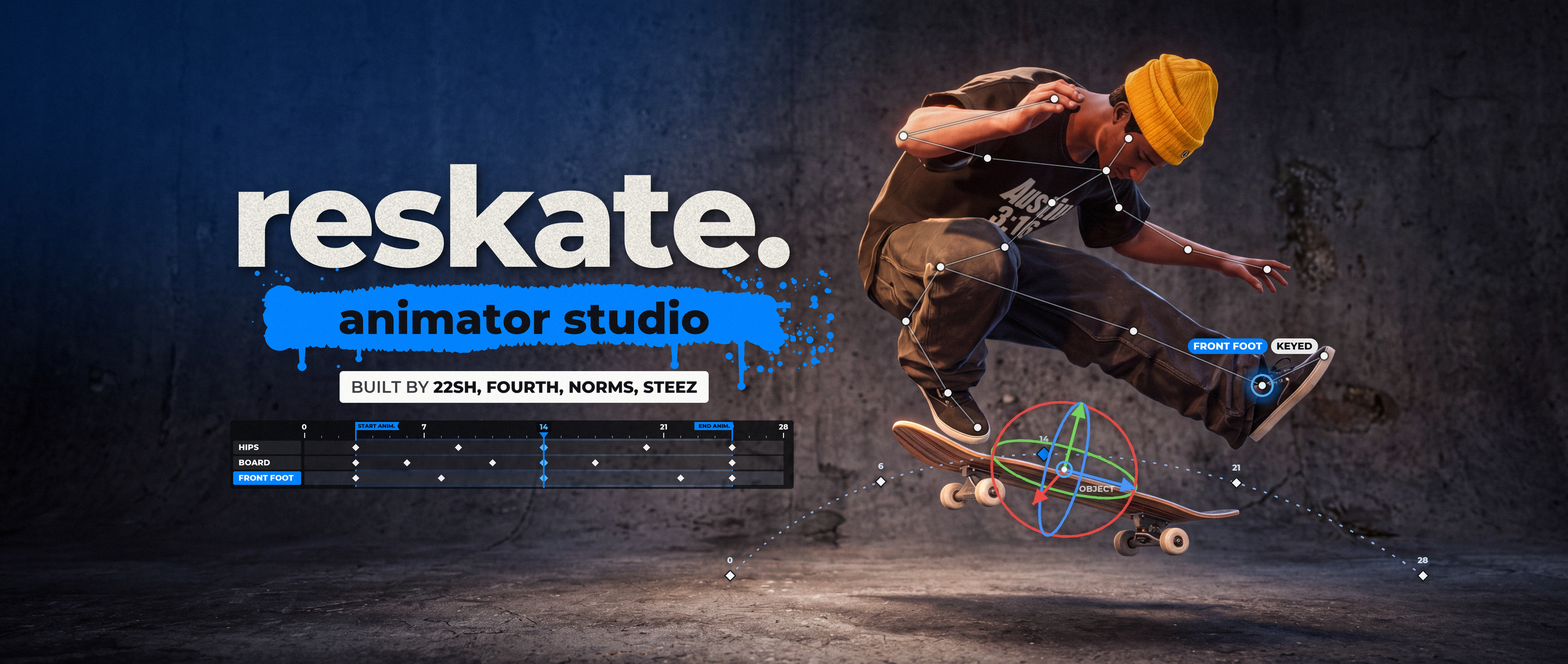
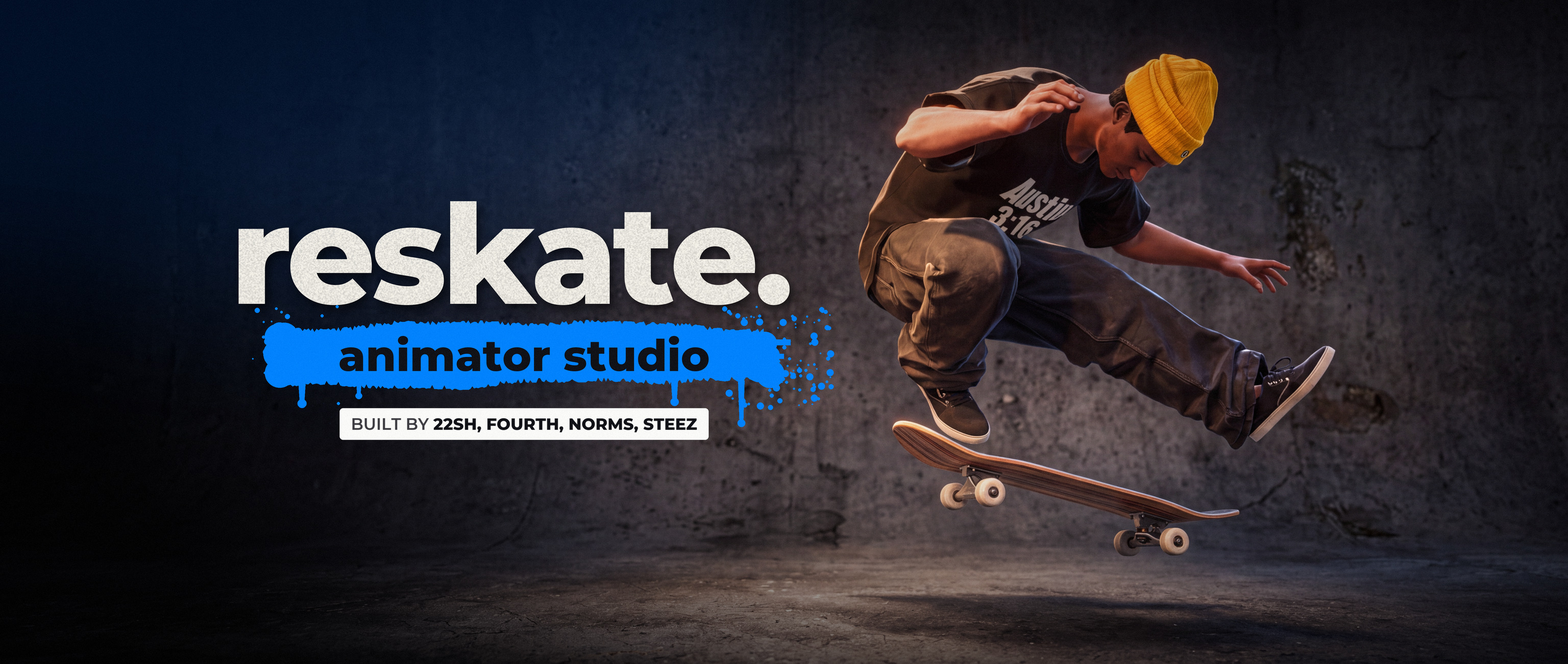
Animator Studio: the loading picture kept clean - the skater in a deep vignette and the reskate. lockup

diff --git a/contrib/animator-studio/make_loading_picture.py b/contrib/animator-studio/make_loading_picture.py
@@ -1,5 +1,5 @@
-"""The Animator Studio's loading picture: backdrop 3's kickflip with the studio drawn into it - the skater's joint rig, the
-gizmo on the board, the board's arc as keyframes with onion-skin ghosts - and the reskate. lockup with a studio timeline."""
+"""The Animator Studio's loading picture: backdrop 3's kickflip, clean - the skater in a deep vignette, and the reskate. lockup
+with its tape and credits. Its plate (the lettering taken off backdrop 3) is made by make_loading_plate.py."""
 import math
 import random
 import numpy as np
@@ -43,176 +43,19 @@ luma = arr.mean(axis=2, keepdims=True) / 255.0
 cool = np.array([0.96, 0.99, 1.06], dtype=np.float32)
 arr = arr * (cool * (1 - luma) + luma)  # shadows lean blue, highlights stay warm
 yy, xx = np.mgrid[0:H, 0:W].astype(np.float32)
-cx, cy = W * 0.62, H * 0.48
-d = np.sqrt(((xx - cx) / (W * 0.62)) ** 2 + ((yy - cy) / (H * 0.75)) ** 2)
-vignette = np.clip(1.08 - 0.42 * d ** 1.8, 0.45, 1.05)
-arr *= vignette[..., None]
+cx, cy = W * 0.70, H * 0.46
+d = np.sqrt(((xx - cx) / (W * 0.50)) ** 2 + ((yy - cy) / (H * 0.70)) ** 2)
+vignette = np.clip(1.10 - 0.62 * d ** 1.6, 0.18, 1.06)
+# and the top and the bottom edges a touch darker again, as a lens does
+edge = np.clip(1.0 - 0.35 * (np.abs(yy / H - 0.47) / 0.53) ** 3, 0.6, 1.0)
+arr *= (vignette * edge)[..., None]
 canvas = Image.fromarray(np.clip(arr, 0, 255).astype(np.uint8)).convert('RGBA')
 
 # A cold light from the top left, behind the lockup.
 leak = layer()
 ld = ImageDraw.Draw(leak)
-ld.ellipse([-900, -1300, 3400, 1500], fill=(1, 110, 255, 60))
+ld.ellipse([-900, -1300, 3400, 1500], fill=(1, 110, 255, 38))
 canvas = Image.alpha_composite(canvas, leak.filter(ImageFilter.GaussianBlur(420)))
-
-# ---- the skater's rig -------------------------------------------------------------------------------
-J = {
-    'head': (4560, 560), 'neck': (4470, 690), 'chest': (4250, 820), 'spine': (4060, 1000), 'hips': (3800, 1080),
-    'r_shoulder': (3990, 640), 'r_elbow': (3650, 550), 'r_hand': (4260, 400),
-    'l_shoulder': (4520, 840), 'l_elbow': (4800, 1010), 'l_hand': (5120, 1090),
-    'b_knee': (3660, 1300), 'b_ankle': (3830, 1590), 'b_toe': (3950, 1730),
-    'f_knee': (4580, 1340), 'f_ankle': (5100, 1560), 'f_toe': (5350, 1440),
-}
-BONES = [('head', 'neck'), ('neck', 'chest'), ('chest', 'spine'), ('spine', 'hips'), ('neck', 'r_shoulder'), ('r_shoulder', 'r_elbow'),
-         ('r_elbow', 'r_hand'), ('neck', 'l_shoulder'), ('l_shoulder', 'l_elbow'), ('l_elbow', 'l_hand'), ('hips', 'b_knee'),
-         ('b_knee', 'b_ankle'), ('b_ankle', 'b_toe'), ('hips', 'f_knee'), ('f_knee', 'f_ankle'), ('f_ankle', 'f_toe')]
-rig = layer()
-rd = ImageDraw.Draw(rig)
-for a, b in BONES:
-    rd.line([J[a], J[b]], fill=(0, 0, 0, 70), width=13)
-for a, b in BONES:
-    rd.line([J[a], J[b]], fill=(225, 238, 255, 120), width=5)
-for name, (x, y) in J.items():
-    r = 14
-    rd.ellipse([x - r - 6, y - r - 6, x + r + 6, y + r + 6], fill=(0, 0, 0, 110))
-    rd.ellipse([x - r, y - r, x + r, y + r], fill=(250, 250, 252, 235))
-# The joint being posed: the front foot, with the studio's glowing ring and its name beside it.
-fx, fy = J['f_ankle']
-ring = layer()
-rg = ImageDraw.Draw(ring)
-for i, a in enumerate((60, 90, 140)):
-    rr = 52 + i * 12
-    rg.ellipse([fx - rr, fy - rr, fx + rr, fy + rr], outline=(1, 131, 255, a), width=10)
-rig = Image.alpha_composite(rig, glow(ring, 14, 1.4))
-rd = ImageDraw.Draw(rig)
-rd.ellipse([fx - 46, fy - 46, fx + 46, fy + 46], outline=(80, 170, 255, 255), width=9)
-rd.ellipse([fx - 12, fy - 12, fx + 12, fy + 12], fill=(230, 240, 255, 255))
-canvas = Image.alpha_composite(canvas, glow(rig, 10, 0.6))
-canvas = Image.alpha_composite(canvas, rig)
-
-
-def chip(draw, at, label, fill, ink, size=40, pad=22):
-    f = font('Montserrat-ExtraBold.ttf', size)
-    w = draw.textlength(label, font=f)
-    x, y = at
-    h = size + pad
-    draw.rounded_rectangle([x, y, x + w + pad * 2, y + h], radius=h // 2, fill=fill)
-    draw.text((x + pad, y + h / 2), label, font=f, fill=ink, anchor='lm')
-    return w + pad * 2
-
-
-tags = layer()
-td = ImageDraw.Draw(tags)
-x = fx - 300
-x += chip(td, (x, fy - 190), 'FRONT FOOT', (1, 131, 255, 245), (255, 255, 255, 255)) + 14
-chip(td, (x, fy - 190), 'KEYED', (245, 245, 245, 240), INK + (255,))
-canvas = Image.alpha_composite(canvas, tags)
-
-# ---- the board's arc: keyframes, and the board where it was ----------------------------------------
-board_c = (4300, 1900)
-along = (1390 / 1438, 370 / 1438)
-up = (along[1], -along[0])
-
-
-def bezier(p0, p1, p2, p3, t):
-    u = 1 - t
-    return (u ** 3 * p0[0] + 3 * u * u * t * p1[0] + 3 * u * t * t * p2[0] + t ** 3 * p3[0],
-            u ** 3 * p0[1] + 3 * u * u * t * p1[1] + 3 * u * t * t * p2[1] + t ** 3 * p3[1])
-
-
-P0, P1, P2, P3 = (2950, 2330), (3550, 1700), (4800, 1650), (5750, 2330)
-arc = layer()
-ad = ImageDraw.Draw(arc)
-steps = 140
-for i in range(steps):
-    t = i / steps
-    if i % 2:
-        continue
-    a, b = bezier(P0, P1, P2, P3, t), bezier(P0, P1, P2, P3, t + 0.5 / steps)
-    ad.line([a, b], fill=(160, 205, 255, 200), width=7)
-
-
-def diamond(draw, c, r, fill, outline=None, width=0):
-    x, y = c
-    pts = [(x, y - r), (x + r, y), (x, y + r), (x - r, y)]
-    draw.polygon(pts, fill=fill)
-    if outline:
-        draw.line(pts + [pts[0]], fill=outline, width=width, joint='curve')
-
-
-small = font('Montserrat-ExtraBold.ttf', 34)
-for t, frame in ((0.0, 0), (0.27, 6), (0.5, 14), (0.75, 21), (1.0, 28)):
-    p = bezier(P0, P1, P2, P3, t)
-    current = frame == 14
-    diamond(ad, p, 30 if current else 22, (1, 131, 255, 255) if current else (250, 250, 252, 240), (10, 14, 20, 200), 6)
-    ad.text((p[0], p[1] - 62), str(frame), font=small, fill=(220, 235, 255, 230), anchor='mm')
-canvas = Image.alpha_composite(canvas, glow(arc, 8, 0.7))
-canvas = Image.alpha_composite(canvas, arc)
-
-
-def ghost_board(c, angle_deg, roll, alpha):
-    """A wireframe board: the deck as seen turned `roll` about its length (0 grip up, 1 on its edge, 2 wheels up), and its wheels."""
-    g = layer()
-    gd = ImageDraw.Draw(g)
-    length, width = 1380, 250
-    a = math.radians(angle_deg)
-    ux, uy = math.cos(a), math.sin(a)
-    vx, vy = -uy, ux
-    seen = abs(math.cos(roll * math.pi / 2)) * width * 0.5 + 18  # how wide the deck shows, turned that far
-    # A stadium: the nose's round end, a side, the tail's round end, the other side.
-    pts = []
-    for k in range(25):
-        th = -math.pi / 2 + math.pi * k / 24
-        pts.append((length / 2 - seen + math.cos(th) * seen, math.sin(th) * seen))
-    for k in range(25):
-        th = math.pi / 2 + math.pi * k / 24
-        pts.append((-(length / 2 - seen) + math.cos(th) * seen, math.sin(th) * seen))
-    world = [(c[0] + ux * px + vx * py, c[1] + uy * px + vy * py) for px, py in pts]
-    gd.polygon(world, fill=(1, 131, 255, int(alpha * 0.28)))
-    gd.line(world + [world[0]], fill=(150, 200, 255, int(alpha)), width=7, joint='curve')
-    # The wheels, on the side that faces down (or up, the board turned over).
-    side = 1 if roll < 1 else -1
-    for along_w in (-length * 0.30, length * 0.30):
-        for spread in (-0.32, 0.32):
-            px, py = along_w + spread * 180, side * (seen + 58)
-            wx, wy = c[0] + ux * px + vx * py, c[1] + uy * px + vy * py
-            gd.ellipse([wx - 44, wy - 44, wx + 44, wy + 44], outline=(150, 200, 255, int(alpha)), width=7)
-    return g
-
-
-
-
-# ---- the gizmo on the board ---------------------------------------------------------------------------
-giz = layer()
-gz = ImageDraw.Draw(giz)
-R = 300
-bx, by = board_c
-
-
-def ellipse_points(major_dir, major, minor, n=120):
-    mx, my = major_dir
-    nx, ny = -my, mx
-    return [(bx + mx * math.cos(t) * major + nx * math.sin(t) * minor, by + my * math.cos(t) * major + ny * math.sin(t) * minor)
-            for t in (2 * math.pi * k / n for k in range(n + 1))]
-
-
-rings = [(GREEN, along, R * 1.0, R * 0.30), (RED, along, R * 0.98, R * 0.90), (ZBLUE, up, R * 0.92, R * 0.24)]
-for colour, direction, major, minor in rings:
-    gz.line(ellipse_points(direction, major, minor), fill=colour + (235,), width=11, joint='curve')
-# The arrows: up the board's up (green), to its nose (blue), out of it towards the camera (red).
-for colour, (dx, dy), length in ((GREEN, up, 280), (ZBLUE, along, 300), (RED, (-0.55, 0.62), 190)):
-    norm = math.hypot(dx, dy)
-    dx, dy = dx / norm, dy / norm
-    tip = (bx + dx * length, by + dy * length)
-    gz.line([(bx, by), tip], fill=colour + (255,), width=12)
-    s = 30
-    gz.polygon([tip, (tip[0] - dx * s * 2 - dy * s, tip[1] - dy * s * 2 + dx * s), (tip[0] - dx * s * 2 + dy * s, tip[1] - dy * s * 2 - dx * s)],
-               fill=colour + (255,))
-gz.ellipse([bx - 34, by - 34, bx + 34, by + 34], outline=(80, 170, 255, 255), width=9)
-gz.ellipse([bx - 11, by - 11, bx + 11, by + 11], fill=(235, 242, 255, 255))
-gz.text((bx + 60, by + 58), 'OBJECT', font=font('Montserrat-ExtraBold.ttf', 34), fill=(255, 255, 255, 170))
-canvas = Image.alpha_composite(canvas, glow(giz, 16, 0.9))
-canvas = Image.alpha_composite(canvas, giz)
 
 # ---- the lockup ----------------------------------------------------------------------------------------
 type_layer = layer()
@@ -231,7 +74,7 @@ while word_width(wf, word, track) > 2330:
     size -= 6
     wf = font('Montserrat-ExtraBold.ttf', size)
     track = -0.035 * size
-x0, base_y = 930, 1080
+x0, base_y = 930, 1230
 x = x0
 shadow = layer()
 sd = ImageDraw.Draw(shadow)
@@ -313,53 +156,6 @@ st.text((sx0 + 46, sy0 + 64), part1, font=light_f, fill=(60, 60, 66, 255), ancho
 st.text((sx0 + 46 + w1, sy0 + 64), part2, font=bold_f, fill=INK + (255,), anchor='lm')
 canvas = Image.alpha_composite(canvas, strip.filter(ImageFilter.GaussianBlur(0.6)))
 
-# ---- a studio timeline under it -----------------------------------------------------------------------
-tl_layer = layer()
-td = ImageDraw.Draw(tl_layer)
-px0, px1, py0 = x0, word_right, sy0 + 200
-row_h, label_w, header = 62, 300, 74
-rows = ['HIPS', 'BOARD', 'FRONT FOOT']
-py1 = py0 + header + row_h * len(rows) + 16
-td.rounded_rectangle([px0, py0, px1, py1], radius=10, fill=(10, 11, 14, 205))
-frames = 28
-lane0, lane1 = px0 + label_w, px1 - 40
-fx_of = lambda f: lane0 + (lane1 - lane0) * f / frames
-tick_f = font('Montserrat-ExtraBold.ttf', 30)
-for f in range(frames + 1):
-    xf = fx_of(f)
-    big = f % 7 == 0
-    td.line([(xf, py0 + header - (24 if big else 12)), (xf, py0 + header - 4)], fill=(255, 255, 255, 230 if big else 110), width=4 if big else 3)
-    if big:
-        td.text((xf, py0 + 26), str(f), font=tick_f, fill=(255, 255, 255, 235), anchor='mm')
-# The window the keys work in, and its flags.
-w0, w1 = fx_of(3), fx_of(25)
-td.rectangle([w0, py0 + header, w1, py1 - 8], fill=(1, 131, 255, 34))
-flag_f = font('Montserrat-ExtraBold.ttf', 22)
-for xw, right, name in ((w0, True, 'START ANIM.'), (w1, False, 'END ANIM.')):
-    td.line([(xw, py0 + 6), (xw, py1 - 8)], fill=BLUE + (255,), width=6)
-    fw = td.textlength(name, font=flag_f) + 26
-    xa, xb = (xw, xw + fw) if right else (xw - fw, xw)
-    td.polygon([(xa, py0 + 6), (xb, py0 + 6), (xb - (8 if right else -8), py0 + 22), (xb, py0 + 38), (xa, py0 + 38)], fill=BLUE + (255,))
-    td.text(((xa + xb) / 2 - (4 if right else -4), py0 + 22), name, font=flag_f, fill=(8, 14, 24, 255), anchor='mm')
-row_f = font('Montserrat-ExtraBold.ttf', 32)
-keys = {'HIPS': [3, 9, 14, 20, 25], 'BOARD': [3, 6, 11, 14, 17, 25], 'FRONT FOOT': [3, 8, 14, 22, 25]}
-for i, name in enumerate(rows):
-    ry = py0 + header + 8 + i * row_h
-    chosen = name == 'FRONT FOOT'
-    td.rounded_rectangle([px0 + 12, ry, px0 + label_w - 14, ry + row_h - 8], radius=6, fill=BLUE + (255,) if chosen else (34, 35, 39, 240))
-    td.text((px0 + 34, ry + (row_h - 8) / 2), name, font=row_f, fill=(255, 255, 255, 255), anchor='lm')
-    td.rectangle([lane0, ry, lane1, ry + row_h - 8], fill=(44, 50, 62, 150) if chosen else (30, 31, 34, 140))
-    for f in keys[name]:
-        picked = f == 14
-        diamond(td, (fx_of(f), ry + (row_h - 8) / 2), 17 if picked else 14, BLUE_LIGHT + (255,) if picked else (250, 250, 252, 240))
-# The playhead.
-xp = fx_of(14)
-td.rectangle([xp - 30, py0 + 6, xp + 30, py0 + 46], fill=(10, 11, 14, 255))
-td.text((xp, py0 + 26), '14', font=tick_f, fill=BLUE_LIGHT + (255,), anchor='mm')
-td.line([(xp, py0 + 50), (xp, py1 - 4)], fill=BLUE + (255,), width=7)
-td.polygon([(xp - 18, py0 + 48), (xp + 18, py0 + 48), (xp, py0 + 72)], fill=BLUE + (255,))
-canvas = Image.alpha_composite(canvas, tl_layer)
-
 # ---- grain over all of it ------------------------------------------------------------------------------
 final = canvas.convert('RGB')
 noise = np.asarray(Image.effect_noise((W, H), 22)).astype(np.float32) - 128
@@ -370,4 +166,4 @@ final.resize((1584, 672), Image.LANCZOS).save(HERE + r"\compose_preview.jpg", qu
 # How it shows on a 16:9 screen (the sides cropped).
 crop = int(H * 16 / 9)
 final.crop(((W - crop) // 2, 0, (W + crop) // 2, H)).resize((1280, 720), Image.LANCZOS).save(HERE + r"\compose_169.jpg", quality=90)
-print('ok', OUT, 'lockup right edge', int(word_right), 'timeline bottom', int(py1))
+print('ok', OUT)
